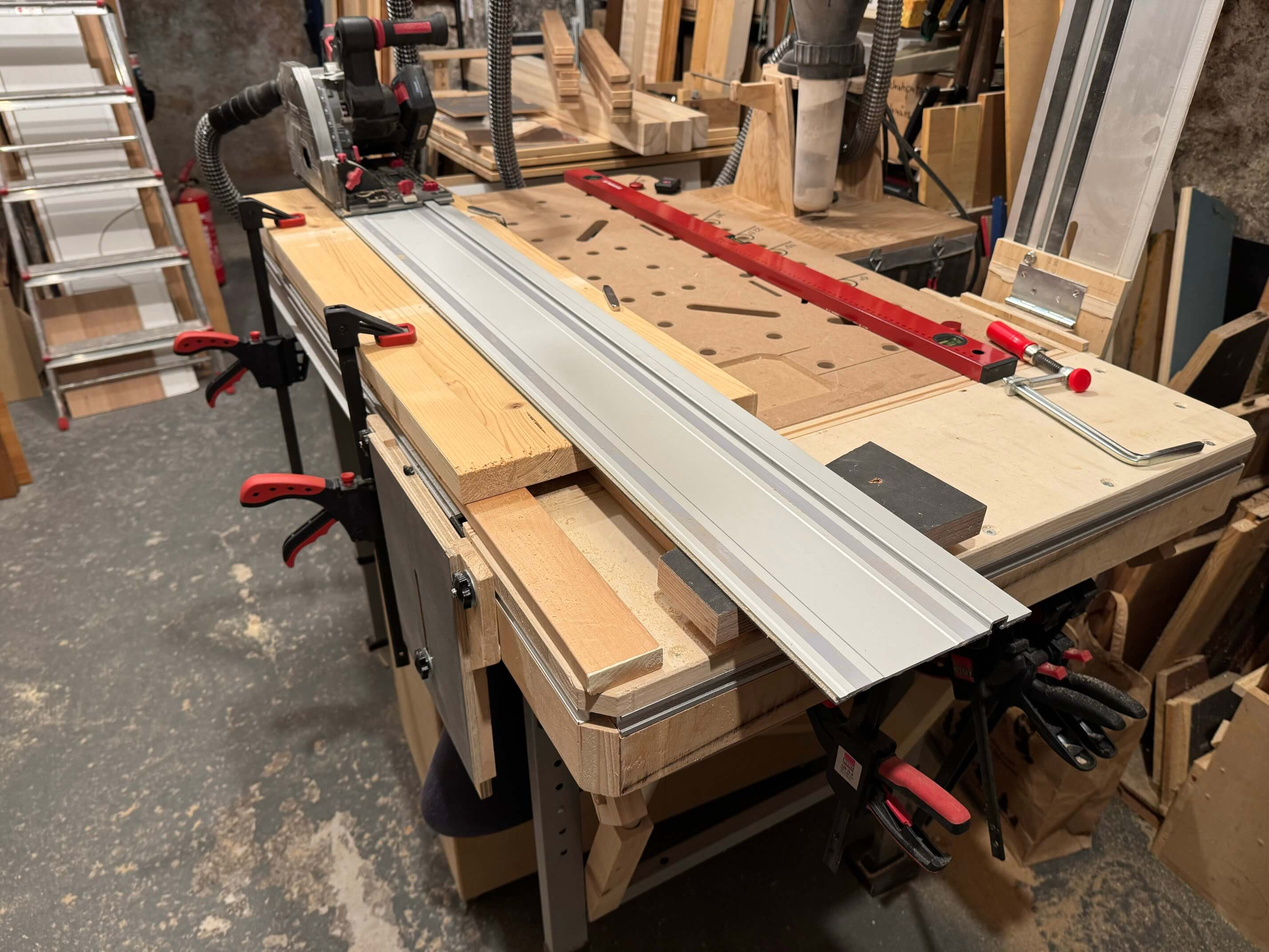
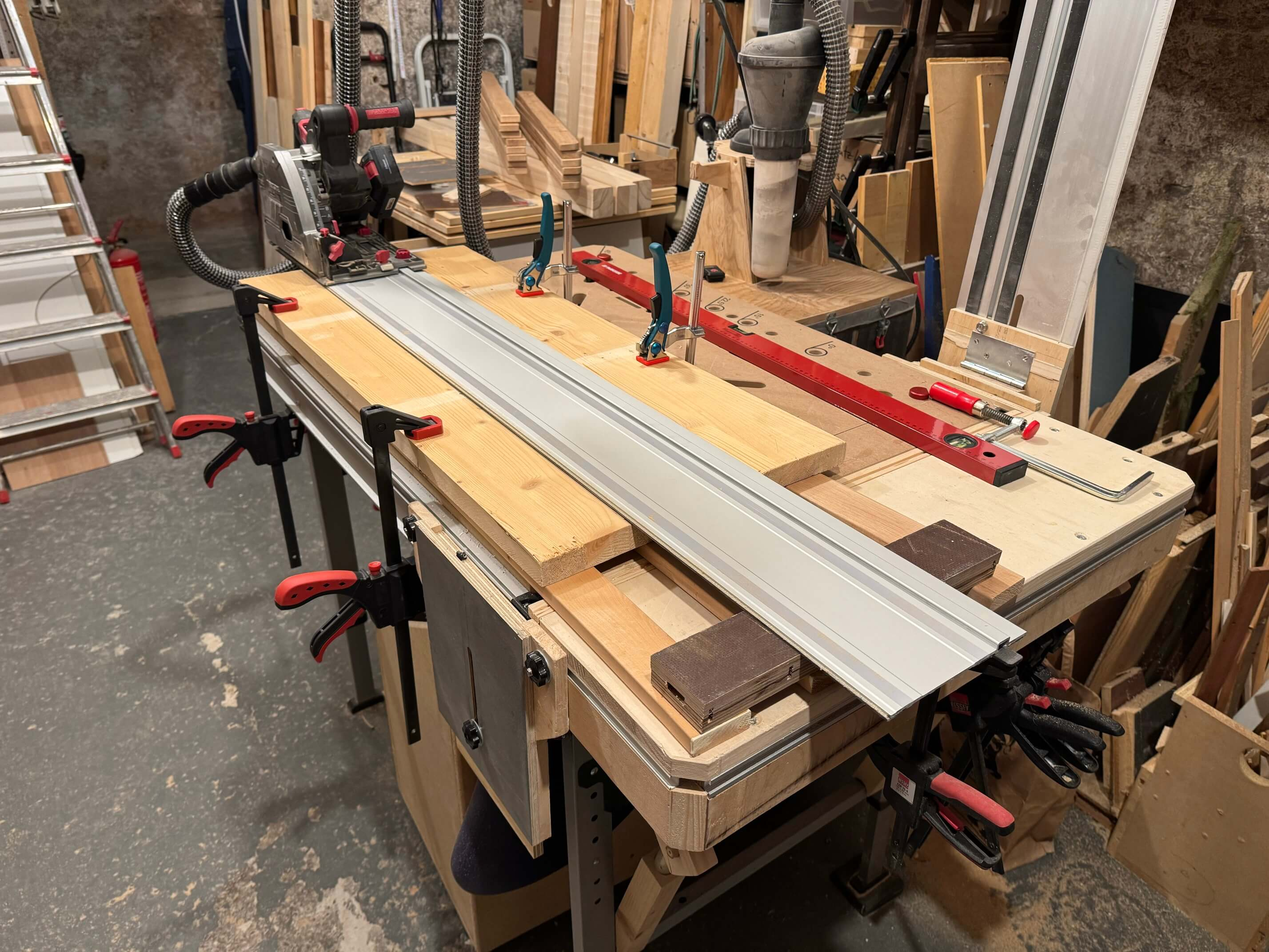
Nachtrag Kindersitzgruppe

diff --git a/media/Kindersitzgruppe/README.md b/media/Kindersitzgruppe/README.md
@@ -1,24 +1,24 @@
 # Kindersitzgarnitur
 
-Da das vorhandene Ding schon ein wenig wackelig ist und die Enkel ja auch wachsen, Idee aus Holz für (fast) lau einen 110%-115% größeren Ersatz zu bauen, der hoffentlich paar Jahre hält.
+Da das vorhandene Ding rechts im Bild schon ein wenig wackelig ist und die Enkel ja auch wachsen, kam Idee auf, aus gerettetem Holz einen 110%-115% größeren Ersatz zu bauen, der hoffentlich paar Jahre hält.
 
-Grundidee und Winkel sowie grobe Maße [von hier](https://www.selbst.de/kindersitzgruppe-23322.html) wobei sich die späteren exakten Maße natürlich aus dem vorhandenen Holz ergeben werden.
+Grundaufbau (Winkel sowie grobe Maße) [von hier](https://www.selbst.de/kindersitzgruppe-23322.html) wobei sich die späteren exakten Maße natürlich aus dem vorhandenen Holz ergeben werden.
 
 #### Ausgangssituation:
 
 ![](001.jpg)
 
-#### Nachbarin hat das Zimmer ihrer ältesten Tochter umgestaltet und alles an Holz landete netterweise bei mir. Das Gros der neuen Konstruktion wird aus 17mm starken 120x5,5cm Lattenrost-Leisten gemacht und die vier Beine aus einem 28mm starken Kiefer- oder Fichtebrett gesägt.
+#### Nachbarin hat das Zimmer ihrer ältesten Tochter umgestaltet und alles an Holz landete netterweise bei mir. Das Gros der neuen Konstruktion wird aus 18mm starken 120x5,5cm Lattenrost-Leisten gemacht und die vier Beine aus einem 28mm starken Kiefer- oder Fichtebrett gesägt.
 
 ![](002.jpg)
 
-#### 6 Leisten werden per wasserfestem Holzleim zu insg. 4 "Bälkchen":
+#### 6 Leisten werden per wasserfestem Holzleim zu insg. 3 "Balken", von denen später einer für die Tischkonstruktion halbiert wird:
 
 ![](003.jpg)
 
 ![](004.jpg)
 
-#### Mit simplem Anschlag auf zweimal alle Leisten auf exakt 100cm bringen:
+#### Mit simplem Anschlag auf zweimal alle Leisten für Tisch und Bänke auf exakt 100cm bringen:
 
 ![](005.jpg)
 
@@ -38,11 +38,11 @@ Grundidee und Winkel sowie grobe Maße [von hier](https://www.selbst.de/kindersi
 
 ![](009.jpg)
 
-#### Die Unterseiten sind die mit Fehlern, alles fertig gespachtelt:
+#### Die Leisten-Unterseiten sind die mit Fehlern, nun fertig gespachtelt:
 
 ![](010.jpg)
 
-#### Mittels Frässchlitten und Planfräser alle Bälkchen in je zwei Schritten auf identische Höhe bringen:
+#### Mittels Frässchlitten und Planfräser alle Bälkchen in je zwei Schritten auf identische Höhe bringen (davor frei Hand mit Elektrohobel herumdilletiert, was ein paar mm gekostet hat):
 
 ![](011.jpg)
 
@@ -54,7 +54,7 @@ Grundidee und Winkel sowie grobe Maße [von hier](https://www.selbst.de/kindersi
 
 ![](013.jpg)
 
-#### Beine auf Format gebracht, jetzt das übliche Prozedere (Kanten abrunden, schleifen):
+#### Beine auf Format gebracht, im Anschluß Fehler fixen:
 
 ![](014.jpg)
 
@@ -62,25 +62,23 @@ Grundidee und Winkel sowie grobe Maße [von hier](https://www.selbst.de/kindersi
 
 ![](015.jpg)
 
-#### 
-
 ![](016.jpg)
 
-#### Die Bälkchen kriegen außen an der Unterseite 'nen 20mm-Radius (wieder Tellerschleifer im Anschluß im Einsatz) und die üblichen 3mm ringsherum:
+#### Die Tischbälkchen kriegen außen an der Unterseite 'nen 20mm-Radius (wieder Tellerschleifer im Anschluß im Einsatz) und die üblichen 3mm ringsherum:
 
 ![](017.jpg)
 
 ![](018.jpg)
 
-#### Die letzten Flicken noch weg und dann beginnt die lästige Schleiferei:
+#### Die letzten Überstände noch weg und dann geht's mit Kantenfräsen und der lästige Schleiferei weiter:
 
 ![](019.jpg)
 
-#### Auf Basis der realen Maße steht Ergonomiegedöns an und im Anschluß ist der Abstand zwischen den Sitzbänken fest...
+#### Auf Basis der realen Maße steht Ergonomiegedöns an und im Anschluß ist der Abstand zwischen den Sitzbänken bestimmt...
 
 ![](020.jpg)
 
-#### ...ergo können die langen "Balken" endlich abgelängt werden (im Anschluß dann wieder 20mm-Radius an die Unterseiten und 3mm ringsrum)
+#### ...ergo können die langen Bälkchen endlich abgelängt werden (im Anschluß dann wieder 20mm-Radius an die Unterseiten und 3mm ringsrum)
 
 ![](021.jpg)
 
@@ -88,7 +86,7 @@ Grundidee und Winkel sowie grobe Maße [von hier](https://www.selbst.de/kindersi
 
 ![](022.jpg)
 
-#### Zwei Löcher je Leiste, damit leicht gebogenen Latten geradegezogen werden und um 17mm versetzt, damit je eine Schraube in einer der zusammengeleimten Leisten landet (wohl Schwachsinn, weil heutiger Weißleim stark genug ist)
+#### Zwei Löcher je Leiste, damit leicht gebogenen Latten geradegezogen werden und um 18mm versetzt, damit je eine Schraube in einer der zusammengeleimten Leisten landet (wohl Schwachsinn, weil heutiger Weißleim stark genug ist)
 
 ![](023.jpg)
 
@@ -130,15 +128,15 @@ Grundidee und Winkel sowie grobe Maße [von hier](https://www.selbst.de/kindersi
 
 ![](034.jpg)
 
-#### Für die Endmontage in jedes Bein sechs Löcher bohren/senken und fixiert Bohrlöcher in die Tischbalken übertragen:
+#### Für die Endmontage in jedes Bein sechs Löcher bohren/senken und festgespannt Bohrlöcher in die Tischbälkchen übertragen:
 
 ![](035.jpg)
 
-#### Für Endmontage war es wichtig, Bänke auf Tisch aufzulegen bevor die Beine am Tisch verschraubt wurden weil sonst hätte eine Bank wieder demontiert werden müssen, um das Bankelement anzubringen:
+#### Für Endmontage war es wichtig, Bankmodul auf Tisch aufzulegen bevor die Beine am Tisch verschraubt wurden weil sonst hätte eine Bank wieder demontiert werden müssen, um das Bankmodul horizontal einzuschieben:
 
 ![](036.jpg)
 
-#### 35mm Sitzhöhe eingestellt mittels vierer ["Hebe- und Spannwerkzeuge"](https://www.lidl.de/p/parkside-hebe-und-spannwerkzeug/p100397893) und dann primitiv mit Stützbrett festgespannt. Im Anschluß per Papierschablone wieder 6 Bohrlöcher bohren/senken und weil diesmal keine Rücksicht auf andere Schrauben genommen werden muß, im richtigen 25°-Winkel:
+#### Beine an Tisch geschraubt, dann 35cm Sitzhöhe eingestellt mittels vierer ["Hebe- und Spannwerkzeuge"](https://www.lidl.de/p/parkside-hebe-und-spannwerkzeug/p100397893) und simpel mit Stützbrett festgespannt. Im Anschluß per Papierschablone wieder je Bein 6 Bohrlöcher bohren/senken und weil diesmal keine Rücksicht auf andere Schrauben genommen werden muß, im richtigen 25°-Winkel:
 
 ![](037.jpg)
 
@@ -146,18 +144,22 @@ Grundidee und Winkel sowie grobe Maße [von hier](https://www.selbst.de/kindersi
 
 ![](028.jpg)
 
-#### Die bekommen je ein Loch für eine 50mm- und ca. 1,5cm tiefer gesenkte 60mm-Schraube:
+#### Die bekommen Richtung Beine je ein Loch für eine 50mm- und eine ca. 1,5cm versenkte 60mm-Schraube:
 
 ![](038.jpg)
 
-#### Löcher für die Streben anzeichen, dann bohren/senken:
+#### Löcher für die Streben auf Tisch anzeichen, dann bohren/senken:
 
 ![](039.jpg)
 
-#### Mittels simplem Setup u.v.a. ohne ungenaues Messen (zwei Streben auf jede Seite locker anschrauben, Balken dagegen drücken und fixieren) exakt mittig in die Streben bohren:
+#### Mittels simplem Setup (zwei Streben auf jede Seite locker in das äußerste vorher an der Tischbohrmaschine gebohrte Loch anschrauben, Balken dagegen drücken und festspannen) also ohne ungenaues Messen exakt mittig in die am Balken festgespannten Streben bohren:
 
 ![](040.jpg)
 
-#### Und am Ende noch mit je einer 50mm- und einer ca. 1,5cm versunkenen 60mm-Schraube an den Beinen befestigen:
+#### Von oben verschrauben und am Ende noch mit je einer 50mm- und einer ca. 1,5cm versenkten 60mm-Schraube an den Beinen befestigen:
 
 ![](041.jpg)
+
+#### Den Enkeln taugt das Ergebnis jedenfalls:
+
+![](042.jpg)
